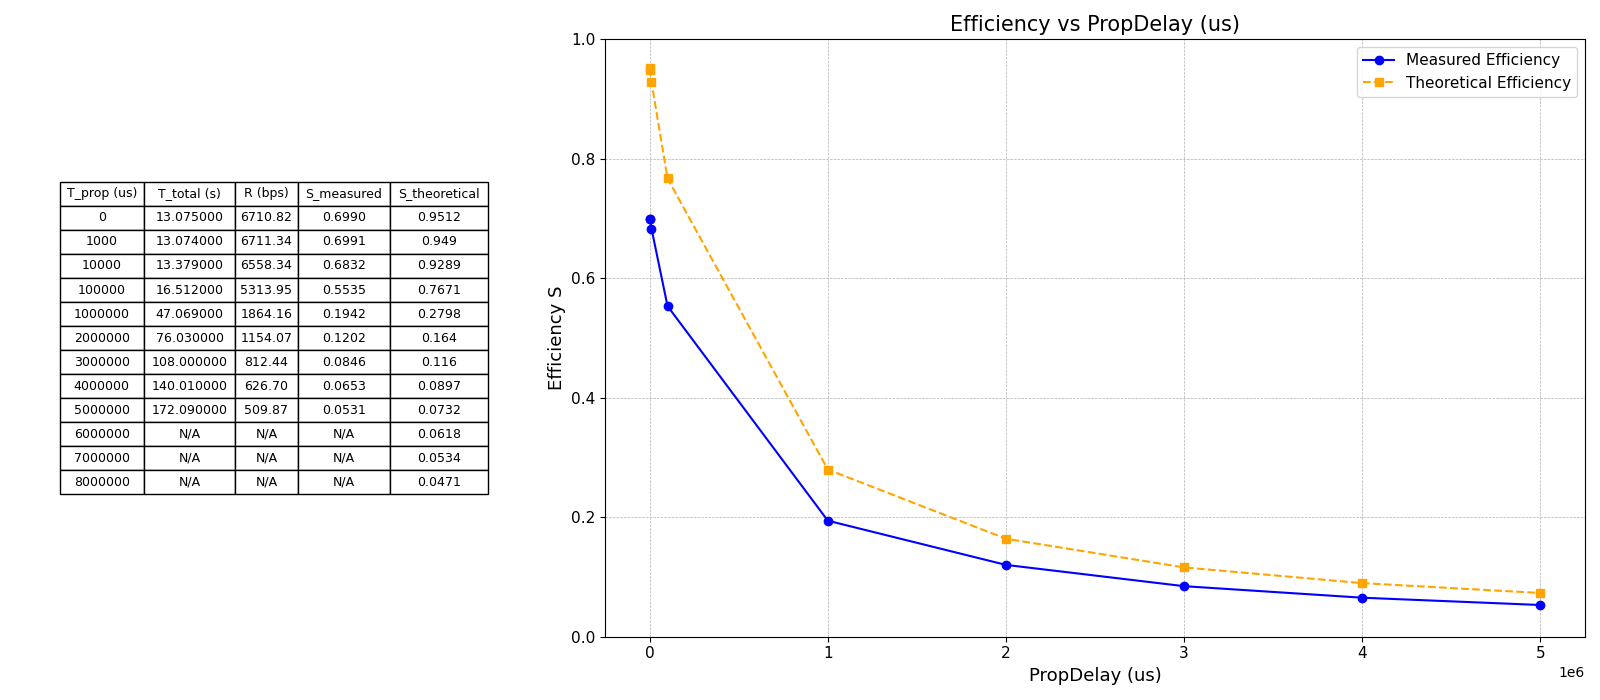
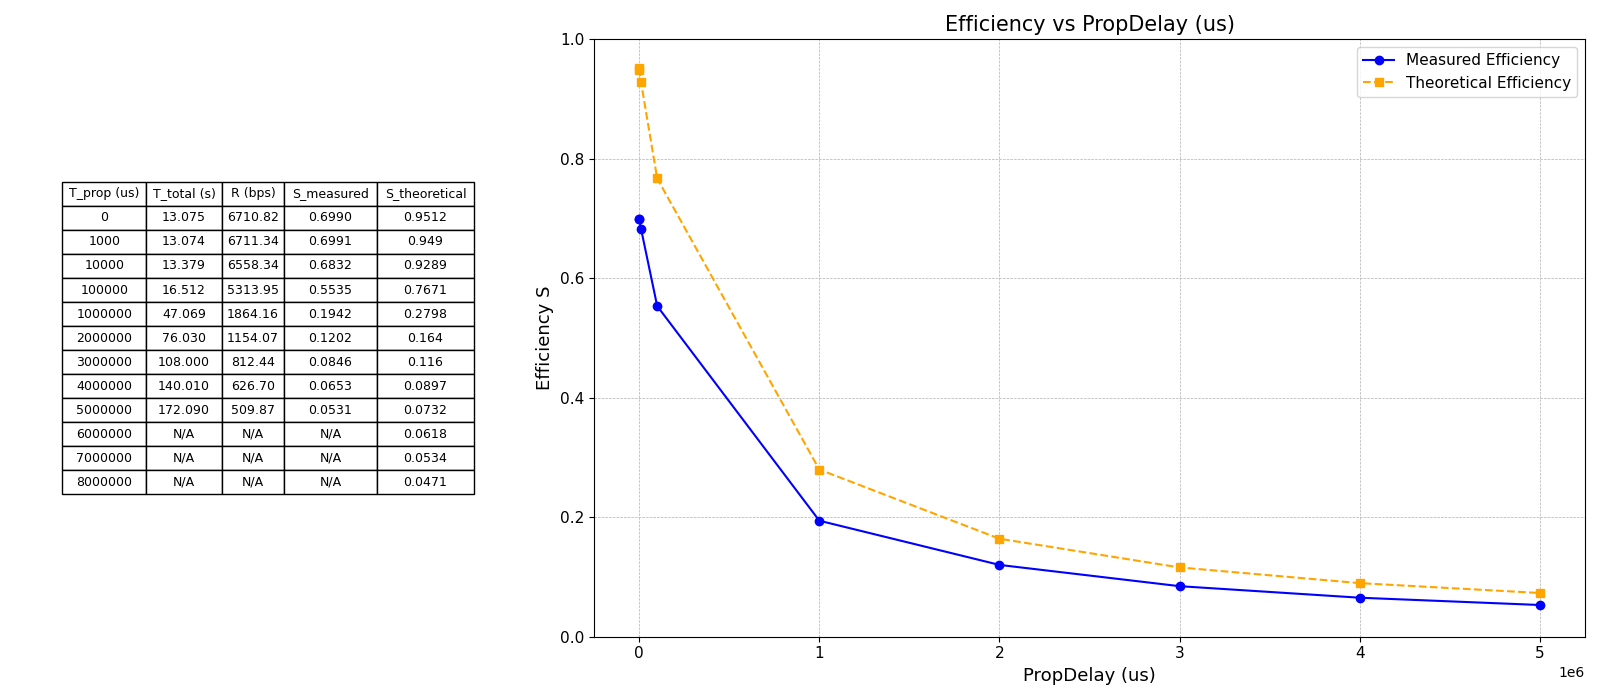
last push

diff --git a/lab1-code-25-26/docs/plot_efficiency_graphs.py b/lab1-code-25-26/docs/plot_efficiency_graphs.py
@@ -81,7 +81,6 @@ def plot_efficiency_vs_variable(csv_path, variable_name, output_folder, output_n
     df_table = df_table.rename(columns=col_rename)
     # Format FER column to 4 decimal places if present, but keep 'N/A' as is
     if "FER" in df_table.columns:
-
         def fer_format(v):
             if v == "N/A":
                 return "N/A"
@@ -89,8 +88,19 @@ def plot_efficiency_vs_variable(csv_path, variable_name, output_folder, output_n
                 return f"{float(v):.4f}"
             except Exception:
                 return v
-
         df_table["FER"] = df_table["FER"].apply(fer_format)
+    # Format T_total (s) column to 3 decimal places if present, but keep 'N/A' as is
+    if "T_total (s)" in df_table.columns:
+
+        def ttotal_format(v):
+            if v == "N/A":
+                return "N/A"
+            try:
+                return f"{float(v):.3f}"
+            except Exception:
+                return v
+
+        df_table["T_total (s)"] = df_table["T_total (s)"].apply(ttotal_format)
     # Replace empty strings and NaN with 'N/A' for display
     df_table = df_table.replace({"": "N/A"})
     df_table = df_table.fillna("N/A")
